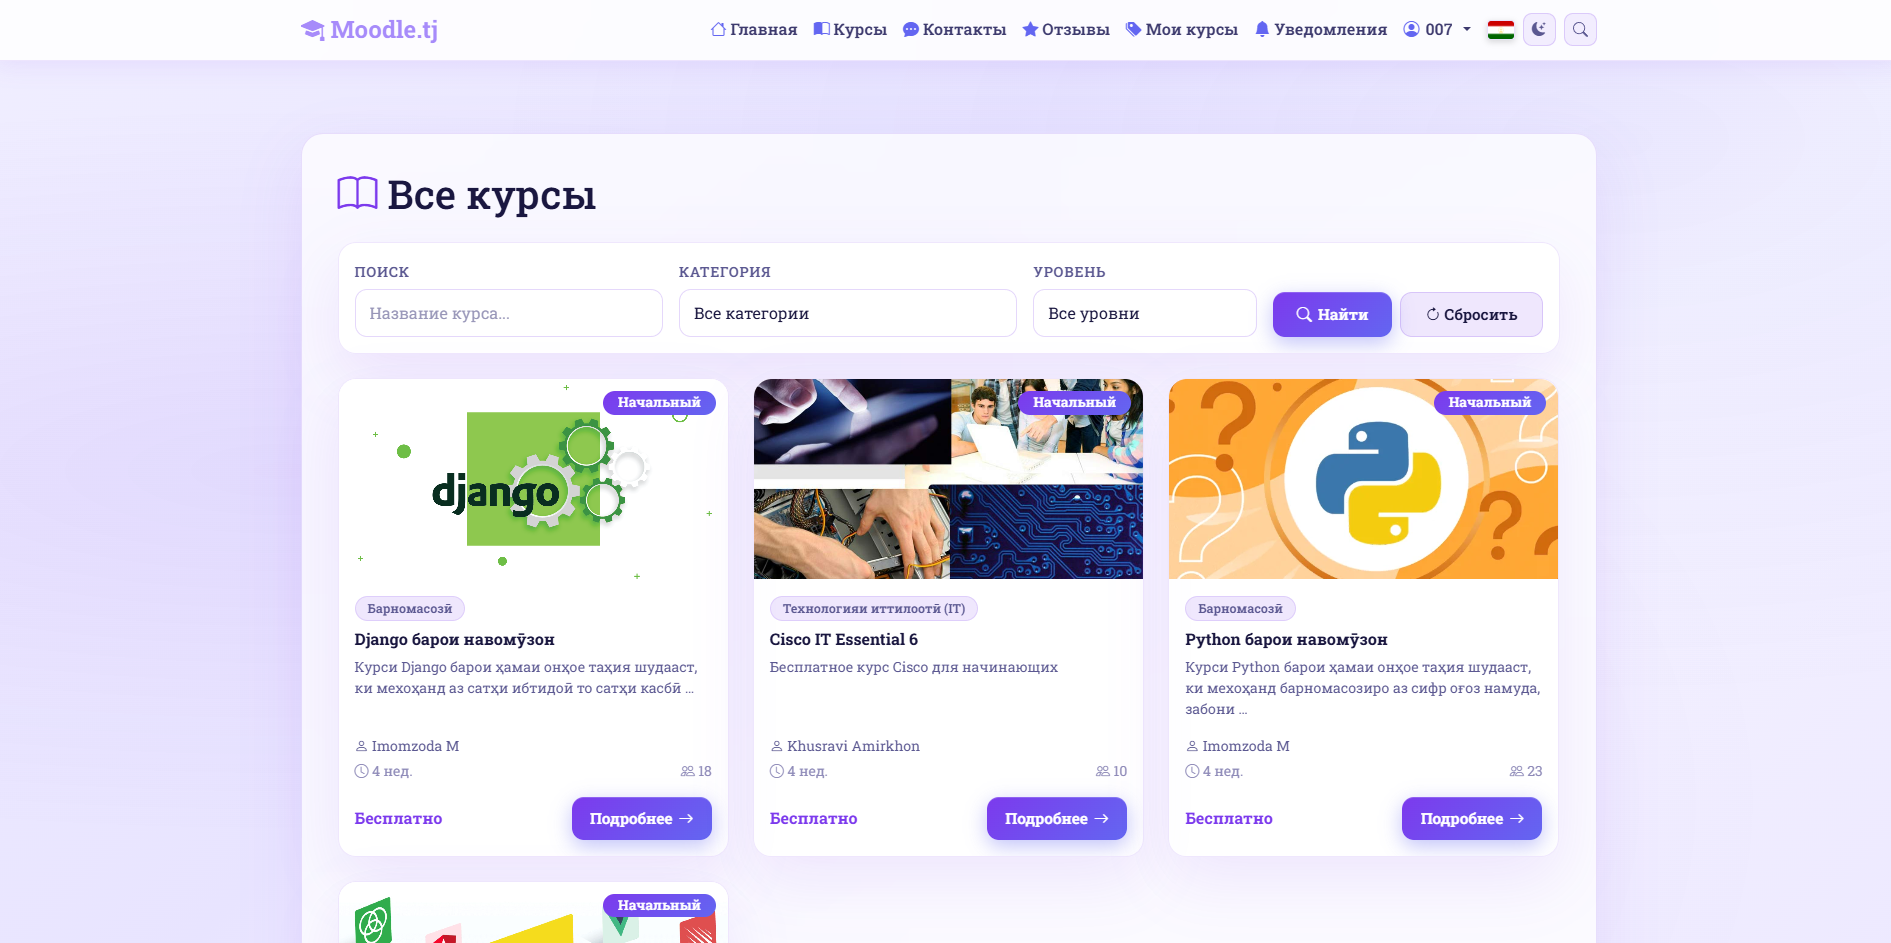
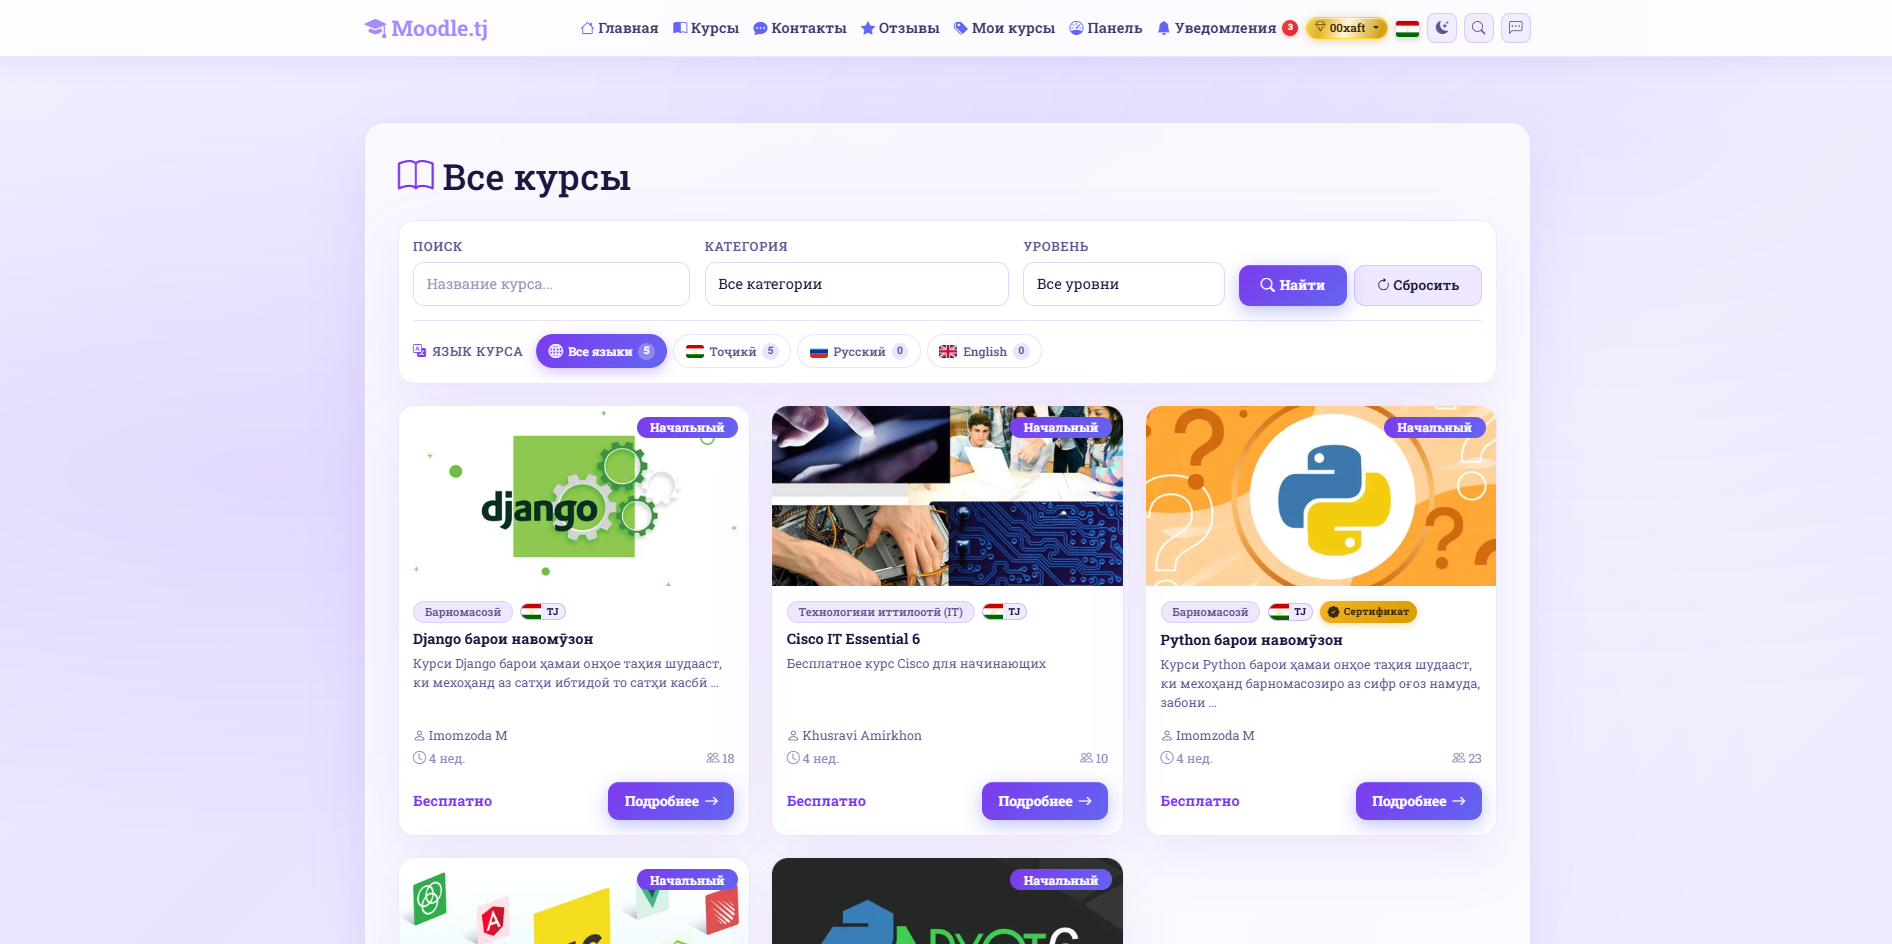
Общий чат и глобальный поиск в витрине
- новые экраны: чат платформы и глобальный поиск (по одному блоку
  в каждом README, ru/tg/en);
- обновлены скриншоты каталога курсов и страницы курса;
- описания под ними переписаны: в каталоге появился фильтр по языку
  курса и значок сертификата, на странице курса — плашка прогресса
  до сертификата и панель автора курса;
- в таблицу «Сообщество» добавлена строка про общий чат.

diff --git a/README.md b/README.md
@@ -115,9 +115,9 @@
 
 ### Каталог курсов
 
-Поиск по названию, фильтры по категории и уровню подготовки.
-На карточке — категория, автор, длительность, число студентов
-и стоимость.
+Поиск по названию, фильтры по категории, уровню и языку курса —
+у каждого языка свой флаг и число курсов. На карточке видно уровень,
+автора, длительность, число студентов и выдаётся ли сертификат.
 
 <img src="docs/screenshots/02-courses.png" alt="Каталог курсов">
 
@@ -128,9 +128,9 @@
 
 ### Страница курса
 
-Преподаватель, длительность, число студентов и уроков.
-Полоса личного прогресса, программа курса с раскрывающимися уроками
-и вкладки «Программа / О курсе / Форум».
+Преподаватель, длительность, число студентов и уроков. Отдельная
+плашка показывает, сколько уроков осталось до сертификата, а автору
+курса — быстрый переход к активности, урокам и редактированию.
 
 <img src="docs/screenshots/03-course-detail.png" alt="Страница курса">
 
@@ -315,6 +315,30 @@
 
 </td>
 </tr>
+<tr>
+<td width="50%" valign="top">
+
+### Общий чат платформы
+
+Чат для всех: сообщения группируются по дням, есть ответы на реплики,
+картинки, эмодзи и правка отправленного. Открывается поверх любой
+страницы и не мешает читать урок.
+
+<img src="docs/screenshots/19-chat.png" alt="Общий чат платформы">
+
+</td>
+<td width="50%" valign="top">
+
+### Глобальный поиск
+
+Одно поле ищет по курсам, урокам и новостям сразу. Результаты
+разложены по разделам, найденное слово подсвечено, под каждым
+уроком видно, из какого он курса.
+
+<img src="docs/screenshots/20-search.png" alt="Глобальный поиск">
+
+</td>
+</tr>
 </table>
 
 ---
@@ -376,6 +400,7 @@
 | Новости | Лента платформы с комментариями и голосованием |
 | Отзывы | Оценки платформы от студентов |
 | Уведомления | Внутренние оповещения о событиях курса |
+| Общий чат | Чат платформы: ответы на сообщения, картинки, эмодзи, правка |
 | Telegram | Привязка аккаунта, вход и уведомления через бота |
 
 ### Преподавателю и администратору

diff --git a/README.tg.md b/README.tg.md
@@ -315,6 +315,30 @@
 
 </td>
 </tr>
+<tr>
+<td width="50%" valign="top">
+
+### Чати умумии платформа
+
+Чат барои ҳама: паёмҳо аз рӯи рӯзҳо гурӯҳбандӣ мешаванд, ҷавоб ба паём,
+расм, эмодзи ва таҳрири фиристодашуда ҳаст. Болои ҳар саҳифа кушода
+мешавад ва ба хондани дарс халал намерасонад.
+
+<img src="docs/screenshots/19-chat.png" alt="Чати умумии платформа">
+
+</td>
+<td width="50%" valign="top">
+
+### Ҷустуҷӯи умумӣ
+
+Як майдон якбора дар курсҳо, дарсҳо ва хабарҳо меҷӯяд. Натиҷаҳо
+аз рӯи бахшҳо ҷудо шудаанд, калимаи ёфташуда равшан карда мешавад,
+дар зери ҳар дарс курси он нишон дода мешавад.
+
+<img src="docs/screenshots/20-search.png" alt="Ҷустуҷӯи умумӣ">
+
+</td>
+</tr>
 </table>
 
 ---
@@ -376,6 +400,7 @@
 | Хабарҳо | Лентаи платформа бо шарҳҳо ва овоздиҳӣ |
 | Тақризҳо | Баҳои платформа аз ҷониби донишҷӯён |
 | Огоҳиномаҳо | Хабардоркунии дохилӣ дар бораи рӯйдодҳои курс |
+| Чати умумӣ | Чати платформа: ҷавоб ба паём, расм, эмодзи, таҳрир |
 | Telegram | Пайвасти аккаунт, вуруд ва огоҳиномаҳо тавассути бот |
 
 ### Ба устод ва маъмур

diff --git a/README.en.md b/README.en.md
@@ -314,6 +314,30 @@ across every page, the library included.
 
 </td>
 </tr>
+<tr>
+<td width="50%" valign="top">
+
+### Platform-wide chat
+
+A chat for everyone: messages grouped by day, replies to a specific
+message, images, emoji and editing what you sent. It opens on top of
+any page and never gets in the way of the lesson.
+
+<img src="docs/screenshots/19-chat.png" alt="Platform-wide chat">
+
+</td>
+<td width="50%" valign="top">
+
+### Global search
+
+One field searches courses, lessons and news at once. Results are
+grouped by section, the matched word is highlighted, and every lesson
+shows which course it belongs to.
+
+<img src="docs/screenshots/20-search.png" alt="Global search">
+
+</td>
+</tr>
 </table>
 
 ---
@@ -375,6 +399,7 @@ across every page, the library included.
 | News | Platform feed with comments and voting |
 | Reviews | Platform ratings from students |
 | Notifications | In-app alerts about course events |
+| Platform chat | Site-wide chat: replies, images, emoji, message editing |
 | Telegram | Account linking, sign-in and notifications through a bot |
 
 ### For teachers and administrators
